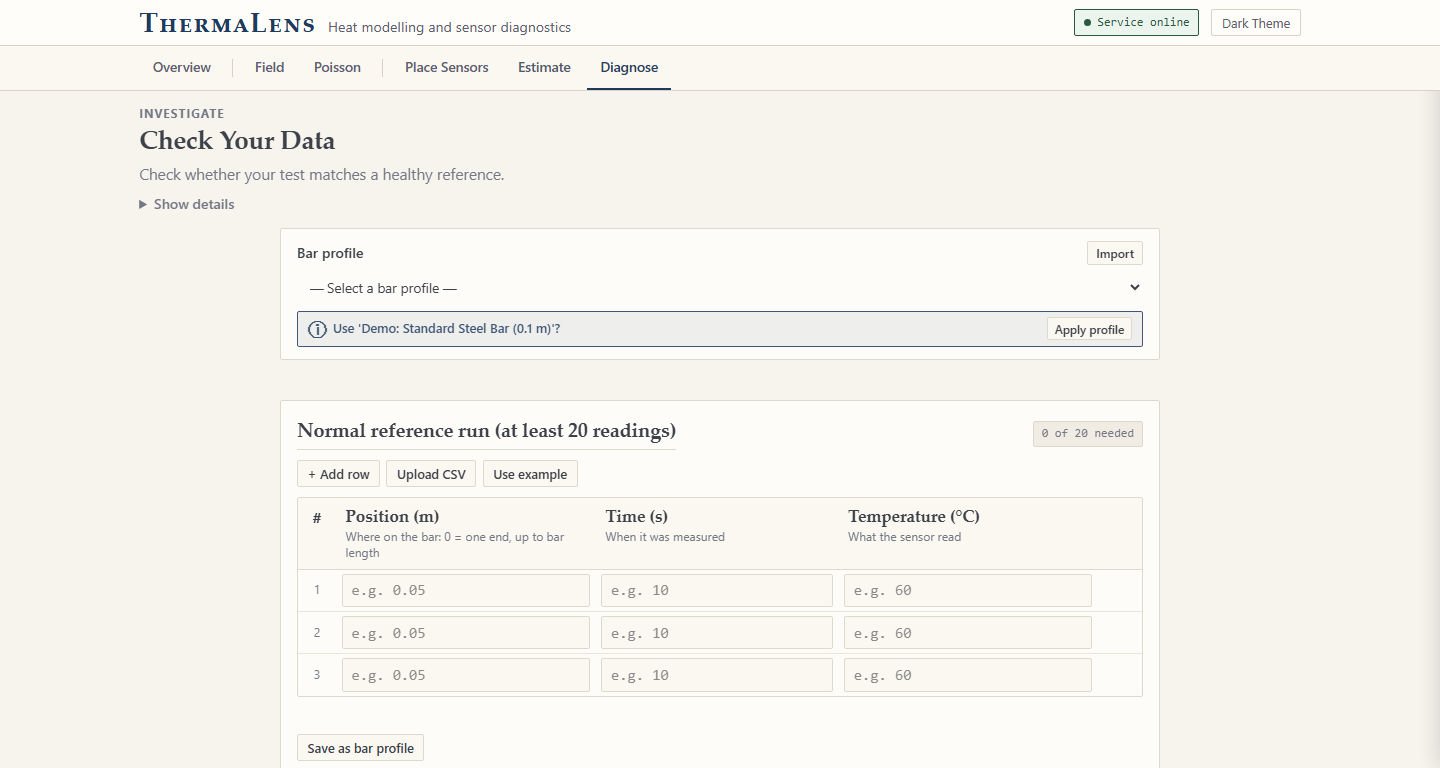
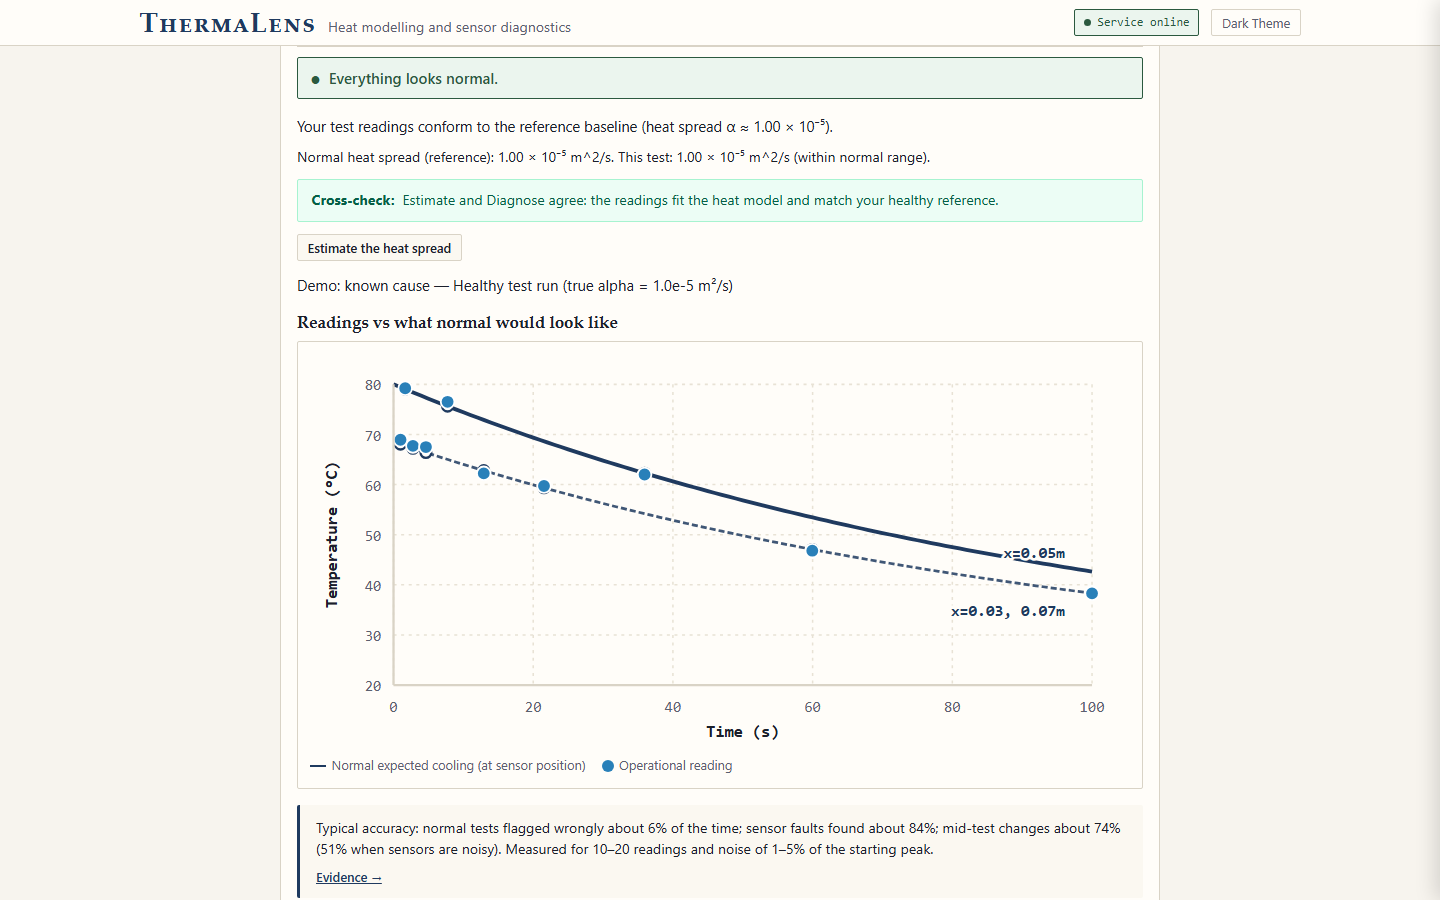
feat(ui): isolate estimate from bar profiles, add setup loader shortcut, and display heat spread values in diagnose verdict

diff --git a/service/static/index.html b/service/static/index.html
@@ -5,7 +5,7 @@
   <meta name="viewport" content="width=device-width, initial-scale=1.0">
   <title>ThermaLens — Thermal PDE Inference &amp; Diagnostics Instrument</title>
   <meta name="description" content="Production-grade physical parameter estimation, multi-hypothesis sensor anomaly diagnostics, and neural operator PDE inference.">
-  <link rel="stylesheet" href="style.css?v=thermalens-v38">
+  <link rel="stylesheet" href="style.css?v=thermalens-v39">
 </head>
 <body>
 
@@ -357,40 +357,6 @@
       </div>
 
       <div class="estimate-single-col">
-        <!-- Bar Profile Selector (Shared Reference Library) -->
-        <div class="card bar-profile-card" id="est-profile-card" style="margin-bottom: 1rem; padding: 0.8rem 1rem;">
-          <div style="display: flex; justify-content: space-between; align-items: center; flex-wrap: wrap; gap: 0.5rem;">
-            <div style="display: flex; align-items: center; gap: 0.5rem;">
-              <label for="est-profile-select" style="font-weight: 600; font-size: 0.88rem; color: var(--text-heading); margin-bottom: 0;">Bar profile</label>
-              <span id="est-profile-modified-badge" class="badge" style="display: none; font-size: 0.72rem; background: var(--accent-amber-bg); color: var(--accent-amber); border: 1px solid var(--accent-amber); padding: 0.1rem 0.4rem; border-radius: var(--radius-xs);">(modified)</span>
-            </div>
-            <div class="profile-actions" id="est-profile-actions" style="display: flex; gap: 0.35rem; align-items: center;">
-              <button type="button" class="btn btn-secondary btn-sm" id="est-profile-export-btn" title="Export profile as .zip" style="font-size: 0.75rem; padding: 0.18rem 0.5rem; display: none;">Export</button>
-              <button type="button" class="btn btn-secondary btn-sm" id="est-profile-import-btn" title="Import profile .zip or CSV+JSON" style="font-size: 0.75rem; padding: 0.18rem 0.5rem;">Import</button>
-              <input type="file" id="est-profile-file-input" accept=".zip,.json,.csv" style="display: none;">
-            </div>
-          </div>
-          <div style="margin-top: 0.4rem;">
-            <select id="est-profile-select" class="form-select" style="width: 100%; font-size: 0.85rem; padding: 0.35rem 0.55rem; border-radius: var(--radius-sm); border: 1px solid var(--rule-base);">
-              <option value="">— Select a bar profile —</option>
-            </select>
-          </div>
-          <div id="est-profile-meta-bar" style="display: none; margin-top: 0.4rem; font-size: 0.78rem; color: var(--text-muted); line-height: 1.4;"></div>
-          <!-- Warning banner if typed setup differs from selected profile -->
-          <div id="est-profile-diff-warn" class="traffic-light-line amber" style="display: none; margin-top: 0.5rem; font-size: 0.8rem; padding: 0.35rem 0.6rem; margin-bottom: 0;">
-            <span class="traffic-light-dot">▲</span>
-            <span id="est-profile-diff-msg">Setup differs from selected profile.</span>
-          </div>
-          <!-- Suggestion banner if typed setup matches an existing profile -->
-          <div id="est-profile-match-suggest" class="traffic-light-line blue" style="display: none; margin-top: 0.5rem; font-size: 0.8rem; padding: 0.35rem 0.6rem; margin-bottom: 0; justify-content: space-between; align-items: center;">
-            <div style="display: flex; align-items: center; gap: 0.4rem;">
-              <span class="traffic-light-dot">ⓘ</span>
-              <span id="est-profile-match-msg"></span>
-            </div>
-            <button type="button" class="btn btn-secondary btn-sm" id="est-profile-apply-match-btn" style="padding: 0.15rem 0.45rem; font-size: 0.74rem;">Apply profile</button>
-          </div>
-        </div>
-
         <!-- 1. Your readings -->
         <div class="card" id="est-readings-card">
           <div class="readings-toolbar">
@@ -448,6 +414,14 @@
         <div class="card" id="est-about-test-card">
           <h2 class="card-title">About your test</h2>
           
+          <!-- Optional shortcut: Load a saved bar's setup -->
+          <div style="margin-bottom: 0.85rem;">
+            <label for="est-load-setup-select" class="form-label" style="font-size: 0.82rem; color: var(--text-muted); margin-bottom: 0.25rem;">Load a saved bar's setup</label>
+            <select id="est-load-setup-select" class="form-select" style="max-width: 380px; font-size: 0.85rem; padding: 0.32rem 0.5rem; border-radius: var(--radius-sm); border: 1px solid var(--rule-base);">
+              <option value="">— Select a saved bar's setup —</option>
+            </select>
+          </div>
+
           <!-- Four REQUIRED fields in 2x2 grid (Always visible, no collapsed details) -->
           <div id="est-real-units-container">
             <div class="real-units-grid">
@@ -1001,6 +975,9 @@
             <!-- Specific Fault/Change/Readings details in plain language -->
             <div id="diag-specific-info" style="margin: 0.6rem 0; font-size: 0.92rem; line-height: 1.5; color: var(--text-normal);"></div>
 
+            <!-- Heat-spread comparison line (reference vs test) -->
+            <div id="diag-heat-spread-line" style="margin: 0.4rem 0 0.6rem 0; font-size: 0.88rem; color: var(--text-normal); line-height: 1.4;"></div>
+
             <!-- Plain Cross-check banner (shown when both a Diagnose result and a healthy reference exist) -->
             <div id="diag-crosscheck-banner" class="crosscheck-banner" style="display: none;">
               <span class="crosscheck-label">Cross-check:</span>
@@ -1038,6 +1015,7 @@
             <details class="disclosure technical-details-card" id="diag-details-disclosure" style="margin-top: 1rem;">
               <summary class="technical-details-summary">Show details</summary>
               <div class="technical-details-body" style="padding-top: 0.75rem;">
+                <p class="diag-reference-concept-note" style="margin-bottom: 0.75rem; font-size: 0.85rem; color: var(--text-normal); line-height: 1.5;" id="diag-details-ref-concept-note">The reference defines what normal looks like. Estimate finds the heat spread from this test alone; Diagnose compares the test with your reference.</p>
                 <p class="diag-scope-note" style="margin-bottom: 0.75rem; font-size: 0.85rem; color: var(--text-normal); line-height: 1.5;" id="diag-detector-scope-note">The detector is built for one or two isolated bad readings, not a sensor that is wrong for the whole test.</p>
                 <p class="diag-crosscheck-note" style="display: none; margin-bottom: 0.75rem; font-size: 0.85rem; color: var(--text-normal); line-height: 1.5;" id="diag-details-crosscheck-note">Estimate can still pass because it only checks that a smooth heat curve fits; Diagnose compares against your healthy reference.</p>
                 <div class="table-container" style="margin-bottom: 0.75rem;">
@@ -2658,6 +2636,6 @@
   <!-- Floating Field Tooltip for Strip and Line Charts -->
   <div id="field-hover-tooltip" style="position: fixed; display: none; pointer-events: none; z-index: 9999; background: rgba(15, 23, 42, 0.92); color: #ffffff; padding: 4px 8px; border-radius: 4px; font-size: 0.75rem; font-family: ui-monospace, SFMono-Regular, Menlo, Monaco, Consolas, monospace; box-shadow: 0 2px 6px rgba(0,0,0,0.3); white-space: nowrap;"></div>
 
-  <script src="app.js?v=thermalens-v38"></script>
+  <script src="app.js?v=thermalens-v39"></script>
 </body>
 </html>

diff --git a/service/static/app.js b/service/static/app.js
@@ -2311,6 +2311,11 @@ function clearDiagnoseResultState() {
   if (flaggedCrossCheckNote) flaggedCrossCheckNote.style.display = 'none';
   const diagCrossBanner = document.getElementById('diag-crosscheck-banner');
   if (diagCrossBanner) diagCrossBanner.style.display = 'none';
+  const heatSpreadEl = document.getElementById('diag-heat-spread-line');
+  if (heatSpreadEl) {
+    heatSpreadEl.textContent = '';
+    heatSpreadEl.style.display = 'none';
+  }
 }
 
 function syncSharedFields(...ids) {
@@ -2474,7 +2479,34 @@ function initDiagnoseWorkbench() {
       };
 
       renderOptions(diagProfileSelect);
-      renderOptions(estProfileSelect);
+      if (estProfileSelect) renderOptions(estProfileSelect);
+
+      const estLoadSetupSelect = document.getElementById('est-load-setup-select');
+      if (estLoadSetupSelect) {
+        estLoadSetupSelect.innerHTML = '<option value="">— Select a saved bar\'s setup —</option>';
+        if (demoProfiles.length > 0) {
+          const gDemo = document.createElement('optgroup');
+          gDemo.label = 'Demo Profiles';
+          demoProfiles.forEach(p => {
+            const opt = document.createElement('option');
+            opt.value = p.id;
+            opt.textContent = `${p.name} (${p.bar_length_m} m, ${p.row_count} readings)`;
+            gDemo.appendChild(opt);
+          });
+          estLoadSetupSelect.appendChild(gDemo);
+        }
+        if (savedProfiles.length > 0) {
+          const gSaved = document.createElement('optgroup');
+          gSaved.label = 'Your Saved Profiles';
+          savedProfiles.forEach(p => {
+            const opt = document.createElement('option');
+            opt.value = p.id;
+            opt.textContent = `${p.name} (${p.bar_length_m} m, ${p.row_count} readings)`;
+            gSaved.appendChild(opt);
+          });
+          estLoadSetupSelect.appendChild(gSaved);
+        }
+      }
 
       const targetId = selectedProfileId || (STATE.currentProfile ? STATE.currentProfile.id : null);
       if (targetId && profiles.some(p => p.id === targetId)) {
@@ -2577,23 +2609,12 @@ function initDiagnoseWorkbench() {
 
       updateProfileMetadataUI(profile);
 
-      // 1. Fill setup fields
+      // 1. Fill setup fields for Diagnose
       if (barLen) barLen.value = String(profile.bar_length_m);
       if (expDur) expDur.value = String(profile.test_duration_s);
       if (tempEdge) tempEdge.value = String(profile.boundary_temperature);
       if (tempPeak) tempPeak.value = String(profile.initial_peak_temperature);
       if (sigmaVal) sigmaVal.value = String(profile.sensor_accuracy || 0.5);
-
-      const estBar = document.getElementById('est-bar-length');
-      if (estBar) estBar.value = String(profile.bar_length_m);
-      const estDur = document.getElementById('est-experiment-time');
-      if (estDur) estDur.value = String(profile.test_duration_s);
-      const estEdge = document.getElementById('est-temp-edge');
-      if (estEdge) estEdge.value = String(profile.boundary_temperature);
-      const estPeak = document.getElementById('est-temp-peak');
-      if (estPeak) estPeak.value = String(profile.initial_peak_temperature);
-      const estSig = document.getElementById('est-sigma-val');
-      if (estSig) estSig.value = String(profile.sensor_accuracy || 0.5);
 
       // 2. Fill Diagnose reference table
       if (baseTbody && profile.readings && profile.readings.length > 0) {
@@ -2615,9 +2636,7 @@ function initDiagnoseWorkbench() {
       }
 
       checkProfileSetupDifferencesAndSuggestions();
-      if (typeof validateEstimateTable === 'function') validateEstimateTable();
       clearDiagnoseResultState();
-      clearEstimateResultState();
     } catch (err) {
       console.error('Error selecting bar profile:', err);
     }
@@ -2632,6 +2651,27 @@ function initDiagnoseWorkbench() {
   if (estProfileSelect) {
     estProfileSelect.addEventListener('change', (e) => {
       selectAndApplyProfile(e.target.value);
+    });
+  }
+  const estLoadSetupSelect = document.getElementById('est-load-setup-select');
+  if (estLoadSetupSelect) {
+    estLoadSetupSelect.addEventListener('change', (e) => {
+      const pId = e.target.value;
+      if (!pId) return;
+      const profile = (STATE.allProfiles || []).find(p => p.id === pId);
+      if (!profile) return;
+      const estBar = document.getElementById('est-bar-length');
+      if (estBar) estBar.value = String(profile.bar_length_m);
+      const estDur = document.getElementById('est-experiment-time');
+      if (estDur) estDur.value = String(profile.test_duration_s);
+      const estEdge = document.getElementById('est-temp-edge');
+      if (estEdge) estEdge.value = String(profile.boundary_temperature);
+      const estPeak = document.getElementById('est-temp-peak');
+      if (estPeak) estPeak.value = String(profile.initial_peak_temperature);
+      const estSig = document.getElementById('est-sigma-val');
+      if (estSig) estSig.value = String(profile.sensor_accuracy || 0.5);
+      if (typeof validateEstimateTable === 'function') validateEstimateTable();
+      clearEstimateResultState();
     });
   }
 
@@ -3392,6 +3432,15 @@ async function executeDiagnosis() {
       specInfo.innerHTML = `A physical transition or external thermal disturbance occurred around ${changeTimeStr} s into the test.`;
       if (gotoEstBtn) gotoEstBtn.style.display = 'inline-block';
       if (gotoEstNoFaultBtn) gotoEstNoFaultBtn.style.display = 'none';
+    }
+
+    // Heat spread comparison line (reference vs test)
+    const heatSpreadEl = document.getElementById('diag-heat-spread-line');
+    if (heatSpreadEl) {
+      const isNormalSpread = (assignedClass !== 'A');
+      const statusText = isNormalSpread ? 'within normal range' : 'different from normal';
+      heatSpreadEl.textContent = `Normal heat spread (reference): ${alphaBase} m^2/s. This test: ${alphaFit} m^2/s (${statusText}).`;
+      heatSpreadEl.style.display = 'block';
     }
 
     // Honesty Note Calibrated Range Check

diff --git a/tests/test_playwright_estimate.py b/tests/test_playwright_estimate.py
@@ -178,3 +178,57 @@ def test_playwright_real_units_estimate_all_four_methods(live_server):
         assert ci4[0] <= 1.0e-5 <= ci4[1], f"declared_physics CI {ci4} does not contain 1.0e-5"
 
         browser.close()
+
+def test_estimate_identical_regardless_of_diagnose_profile(live_server):
+    """Verify that with the same readings and setup, Estimate result is identical whichever profile is selected on Diagnose."""
+    port = live_server
+    with sync_playwright() as p:
+        browser = p.chromium.launch(headless=True)
+        page = browser.new_page(viewport={"width": 1440, "height": 900})
+
+        # 1. On Estimate, click 'Use example' and run calculation
+        page.goto(f"http://127.0.0.1:{port}/#estimate")
+        page.wait_for_selector("#est-use-example-btn", state="visible")
+        page.click("#est-use-example-btn")
+        time.sleep(0.2)
+        page.click("#est-submit-btn")
+        page.wait_for_selector("#est-result-panel", state="visible", timeout=15000)
+        est_result_initial = page.locator("#est-plain-number").text_content().strip()
+        assert est_result_initial != "", "Estimate initial result should not be empty"
+
+        # 2. Go to Diagnose and select Demo 2: Aluminum rod (different length 0.2m, duration 50s)
+        page.goto(f"http://127.0.0.1:{port}/#diagnose")
+        page.wait_for_selector("#diag-profile-select", state="visible")
+        page.select_option("#diag-profile-select", value="00000000-0000-4000-8000-000000000002")
+        time.sleep(0.3)
+
+        # 3. Return to Estimate and calculate with same readings and setup
+        page.goto(f"http://127.0.0.1:{port}/#estimate")
+        page.wait_for_selector("#est-submit-btn", state="visible")
+        page.click("#est-submit-btn")
+        page.wait_for_selector("#est-result-panel", state="visible", timeout=15000)
+        est_result_profile2 = page.locator("#est-plain-number").text_content().strip()
+        assert est_result_profile2 == est_result_initial, f"Estimate result changed after selecting Aluminum rod on Diagnose: {est_result_profile2} vs {est_result_initial}"
+
+        # 4. Go to Diagnose and select Demo 1: Steel bar
+        page.goto(f"http://127.0.0.1:{port}/#diagnose")
+        page.wait_for_selector("#diag-profile-select", state="visible")
+        page.select_option("#diag-profile-select", value="00000000-0000-4000-8000-000000000001")
+        time.sleep(0.3)
+
+        # 5. Return to Estimate and calculate again
+        page.goto(f"http://127.0.0.1:{port}/#estimate")
+        page.wait_for_selector("#est-submit-btn", state="visible")
+        page.click("#est-submit-btn")
+        page.wait_for_selector("#est-result-panel", state="visible", timeout=15000)
+        est_result_profile1 = page.locator("#est-plain-number").text_content().strip()
+        assert est_result_profile1 == est_result_initial, f"Estimate result changed after selecting Steel bar on Diagnose: {est_result_profile1} vs {est_result_initial}"
+
+        # 6. Verify the optional shortcut 'Load a saved bar's setup' exists on Estimate
+        est_load_sel = page.locator("#est-load-setup-select")
+        assert est_load_sel.is_visible()
+        # Also verify the bar-profile card is completely removed from Estimate
+        assert page.locator("#est-profile-card").count() == 0
+        assert page.locator("#est-profile-select").count() == 0
+
+        browser.close()

diff --git a/tests/test_playwright_diagnose.py b/tests/test_playwright_diagnose.py
@@ -140,6 +140,17 @@ def test_playwright_diagnose_real_units_and_baseline_conversion(live_server):
         assert "green" in banner_cls
         assert "Everything looks normal." in page.locator("#diag-traffic-title").text_content()
 
+        # Verify heat spread comparison line
+        assert page.locator("#diag-heat-spread-line").is_visible()
+        heat_line_h = page.locator("#diag-heat-spread-line").text_content()
+        assert "Normal heat spread (reference):" in heat_line_h
+        assert "This test:" in heat_line_h
+        assert "m^2/s" in heat_line_h
+        assert "(within normal range)" in heat_line_h
+
+        # Verify Show details concept note
+        assert page.locator("#diag-details-ref-concept-note").text_content() == "The reference defines what normal looks like. Estimate finds the heat spread from this test alone; Diagnose compares the test with your reference."
+
         # Verify Honesty Note is visible and links to evidence
         assert page.locator("#diag-honesty-note").is_visible()
         honesty_txt = page.locator("#diag-honesty-note").text_content()
@@ -154,6 +165,11 @@ def test_playwright_diagnose_real_units_and_baseline_conversion(live_server):
         banner_cls = page.locator("#diag-traffic-banner").get_attribute("class")
         assert "amber" in banner_cls
         assert "The material behaves differently from your reference run." in page.locator("#diag-traffic-title").text_content()
+        heat_line_a = page.locator("#diag-heat-spread-line").text_content()
+        assert "Normal heat spread (reference):" in heat_line_a
+        assert "This test:" in heat_line_a
+        assert "m^2/s" in heat_line_a
+        assert "(different from normal)" in heat_line_a
 
         # Class F: Sensor Fault (Sensor 3 stuck)
         page.select_option("#diag-scenario-select", "F_stuck")

diff --git a/tests/test_playwright_crosscheck.py b/tests/test_playwright_crosscheck.py
@@ -85,10 +85,6 @@ def test_crosscheck_case1_both_green(live_server):
         page.click("#est-use-example-btn")
         time.sleep(0.3)
 
-        # Select default steel bar profile if not already selected
-        page.select_option("#est-profile-select", value="00000000-0000-4000-8000-000000000001")
-        time.sleep(0.3)
-
         # Click calculate on Estimate
         page.click("#est-submit-btn")
         page.wait_for_selector("#est-result-panel", state="visible", timeout=15000)
@@ -99,6 +95,9 @@ def test_crosscheck_case1_both_green(live_server):
 
         # 2. Switch to Diagnose
         page.goto(f"{live_server}/#diagnose")
+        page.wait_for_selector("#diag-profile-select", state="visible")
+        page.select_option("#diag-profile-select", value="00000000-0000-4000-8000-000000000001")
+        time.sleep(0.3)
         page.wait_for_selector("#diag-submit-btn", state="visible")
         page.click("#diag-submit-btn")
         page.wait_for_selector("#diag-result-panel", state="visible", timeout=15000)
